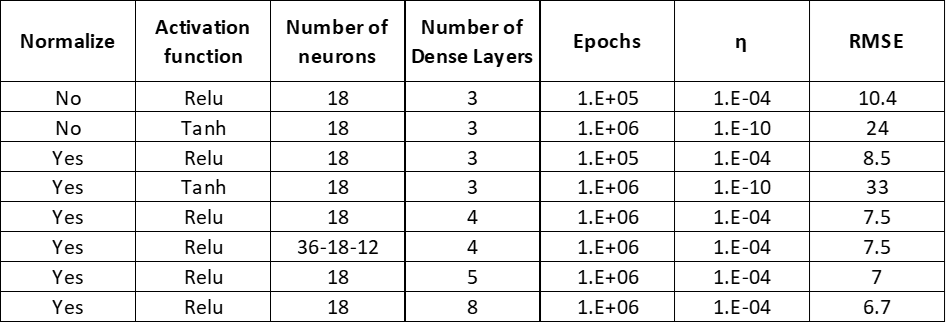
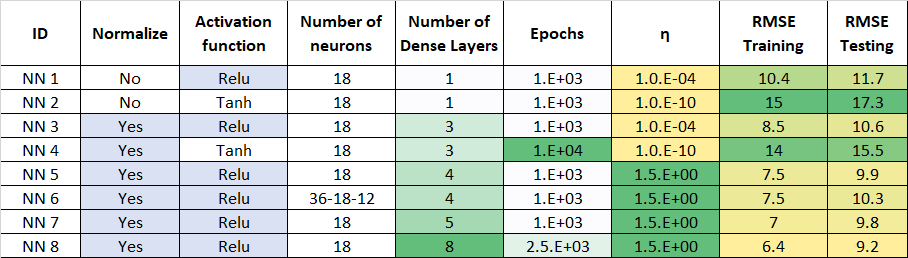
additional edits

diff --git a/content/01.abstract.md b/content/01.abstract.md
@@ -73,67 +73,43 @@ After the air quality data has been processed, the strongest O~3~ predictors wil
 
 In order to explore the relation between the dependent variable and independent variables several scatter plots were created between meteorological variables, pollutant concentrations and ozone concentrations. Additionally, a heatmap was generated to investigate the correlation values between ozone concentration and independent variables. The most correlated metereological variables are RH(relative humidity) and UVB(Ultraviolet index). RH is negatively correlated with ozone,value of -0.51, while UVB is positively correlated, value of 0.51. Another relevant observation was that concentrations of nitrogen-containing chemicals compounds are highly correlated between each other, and also are among the most correlated variables with respect to the predictand (ozone). 
 
-
-![Correlation matrix for hourly values](images/heatmap.jpg)
-Figure 1: Heatmap of Correlation Matrix for Hourly Values
-
-
 Furthermore, the fraction of available measurements, meaning the number of data points available divided by the number of hours in a year, was computed for all stations and all measured variables. This computation helped visualize the stations that missed the least data points as well as the variables whose values are recorded the most consistently through different stations. The station with the highest fraction of available measurements was Banquiao, as seen in the Figure @fig:var. For this reason the remaining portion of this EDA was devoted to this station. Other relevant statistics from the Banquio air quality station are shown in the following Table. 
 
+![Data availability of air quality stations](images/InformationDensity.png){#fig:var)_fig width=6in}
+
+![Statistics of air quality and relevant meteorological variables from Banqiao station](images/Table_description.png){#fig:Banquiao_desc width=6in}
 
 
-![Data availability of air quality stations](images/InformationDensity.png)
-
-Figure 2: 
-
-
-
-Table 2: Statistics of Air Quality and Relevant Meteorological Variables From Banqiao Station
-
-![Statistics of air quality and relevant meteorological variables from Banqiao station](images/Table_description.png){#fig:var width=6in}
-
-
-As described in previous sections, the dataset consists of hourly observations of ozone (dependent variable) and several pollutant concentrations and meteorological measurements (independent variables). The first step is to plot ozone against all of the independent variables to visualize if the data collapsed into any identifiable pattern, thus to later on use such a pattern to identify potential models. The measurements in an hourly time scale did not show any discernible pattern between the dependent and independent variables as shown in Figure 3.
-
+As described in previous sections, the dataset consists of hourly observations of ozone (dependent variable) and several pollutant concentrations and meteorological measurements (independent variables). The first step of the EDA was to plot ozone against all of the independent variables to visualize if the data collapsed into any identifiable pattern, thus to later on use such a pattern to identify potential models. The measurements in an hourly time scale did not show any observable pattern between the dependent and independent variables as shown in Figure 3. To better understand the relation between the dependent variable and independent variables correlation matrixes were produced
 
 ![Scatter plots of hourly measurements of variables](images/O3_corr.png)
 
-Figure 3: Correlationships Between Each Parameter
+Plotting the raw data, i.e. the available measurements without any processing or transformation, did not yield any insights that could help elucidate the relation between the variables. Therefore, the data was normalized. Notwithstanding,  normalization did not translate into plots where patterns could be identified. Thus, the data was processed again following two consecutive steps. First the values were averaged over a day and over a month producing a dataset of daily and monthly measurement. Second, monthly and daily values were standardized by dividing them by their corresponding daily and monthly averages. As seen on figure @fig:day, were daily standarized ozone concentrations are shown, and figures @fig:Pollutants @fig:Meteo_Vars displaying standarized pollutant monthly concentrations and metereological variables measurements.
 
-
-Plotting the raw data, i.e. the available measurements without any processing or transformation, did not yield any insights that could help elucidate the relation between the variables. Therefore, the data was normalized. Notwithstanding,  normalization did not translate into plots where patterns could be identified. Thus, the data was processed again following two consecutive steps. First the values were averaged over a day and over a month producing a dataset of daily and monthly measurement. Second, such values were standardized by dividing them by the corresponding daily and monthly averages.
-
-The resulting daily and monthly standardized averages were plotted against time. Plotting the daily averaged variables shown plots where the fluctuations of the values happened in a relatively short time and thus such fluctuations obscured any pattern that could be observed in the data, as seen in the next figure. Conversely, when the monthly standardized averages were plotted against time it was visible that the pollutants concentrations shown similar time patterns as seen in Figure 5.
+The resulting daily and monthly standardized averages were plotted against time. Plotting the daily averaged variables shown plots were the fluctuations of the values happened in a relatively short time and thus such fluctuations obscured any pattern that could be observed in the data. These was prevalent for all variables, here we show only standarized daily ozone concentrations @fig:day. Conversely, when the monthly standardized averages were plotted against time it was visible that the pollutants concentrations shown similar time patterns as seen in Figure 5.
 
 ![Daily concentrations of ozone](images/day.jpg){#fig:day width=6in}
 
-Figure 4: Daily Concentration of Ozone
-
-
-![Standardized pollutants and ozone monthly concentration changes](images/Pollutants.png){#fig:Pollutants width=6in}
-
-Figure 5: Standardized Pollutions and Ozone Monthly Concentration Changes
+![Standardized pollutants and ozone monthly concentration changes](images/Pollutants.jpg){#fig:Pollutants width=6in}
 
 ![Standardized meteorological measurements and standardized ozone monthly concentration changes](images/Meteo_Vars.png){#fig:MetereologicalVars width=6in}
 
-Figure 6: Standarized Meteorological Measurements and Standardized Ozone Monthly Concentration Changes
+In regards to pollutant concentrations, O~3~ peaked in the months when concentration of the nitrogen based pollutants and non-methane hydrocarbons dropped. This is especially the case for NO concentrations (green line). This pattern of corresponding decreasing pollutant concentrations and increasing ozone could suggest that the pollutant concentrations are negatively correlated with ozone concentrations. This is also consistent with figure @fig:heatmap (correlation plot). As shown in the figure correlation values for the nitrogen species are negative, indicanting negative correlation, and vary from -0.41 to -0.5. 
 
-In regards to pollutant concentrations, O3 peaked in the months when concentration of the nitrogen based pollutants and non-methane hydrocarbons dropped. This is especially the case for NO concentrations (green line). This pattern of corresponding decreasing pollutant concentrations and increasing ozone could suggest that the pollutant concentrations are negatively correlated with ozone concentrations. This is also consistent with figure @fig:heatmap (correlation plot). As shown in the figure correlation values for the nitrogen species are negative and vary from -0.41 to -0.5. 
+In regards to the meteorological variables, UVB (ultraviolet index) and air temperature peak in the same months. Both temperature and UVB experience an increase in their values from the beginning of the year peaking in June. After June, both values experience a steady decrease. In the case of UVB a positive correlation of 0.51 can be observed in @fig:heatmap.
 
-In regards to the meteorological variables, UVB (ultraviolet index) and air temperature peak in the same months. Both temperature and UVB experience an increase in their values from the beginning of the year peaking in June. After June, both values experience a steady decrease. In the case of UVB a correlation of 0.51 can be observed in @fig:heatmap.
+![Correlation matrix for hourly values](images/heatmap.jpg){#fig:heatmap_h)_fig width=6in}
 
 ![Correlation matrix for daily values](images/daily_cor.png){#fig:heatmap_d width=6in}
 
-Figure 7: Correlation Matrix for Daily Values
-
 ![Correlation matrix for monthly values](images/monthly_cor.png){#fig:heatmap_m width=6in}
 
-Figure 8: Correlation Matrix for Monthly Values
 
 ## Predictive Modeling
 
-Two additional correlation matrices were produced in the previous section. One for monthly average values and another for daily average values. As observed in the figures @fig:heatmap, @fig:heatmap_d, @fig:heatmap_m, correlation values of ozone with respect to daily and monthly values of nitrogen-containing compounds, NMHC and temperature are generally lower for daily and monthly averages compared to correlations values of hourly measurements. Consequently, the hourly measurements will be used for predictive modeling. Further discussion regarding the relation between the potential predictors and the predictand O~3~ will be limited to hourly measurements only.
-Values of the coefficient of determination (r^2) between O~3~ and each of the other variables were generally bellow 0.5. This suggests a non-linear relation (most r^2 values). Given the non-linearity of the relation between the predictand O~3~ and the potential predictors favoring the use of a neural network over other models such as multiple linear regression models seemed reasonable. Three different types of neural networks were tested. Additionally, a classification three model was also examined, since as seen in further section, error values of the neural network models were relatively high. 
+Two additional correlation matrices were produced in the previous section. One for monthly average values and another for daily average values. As observed in figures @fig:heatmap, @fig:heatmap_d, @fig:heatmap_m, correlation values of ozone with respect to daily and monthly values of nitrogen-containing compounds, NMHC and temperature are generally lower for daily and monthly averages compared to correlations values of hourly measurements. Consequently, the hourly measurements will be used for predictive modeling. Further discussion regarding the relation between the potential predictors and the predictand O~3~ will be limited to hourly measurements only.
+
+Values of the coefficient of determination (r^2^) between O~3~ and each of the other variables were generally bellow 0.5. This suggests a non-linear relation (most r^2^ values). Given the non-linearity of the relation between the predictand O~3~ and the potential predictors favoring the use of a neural network over other models such as multiple linear regression models seemed reasonable. Three different types of neural networks were tested. Additionally, a classification three model was also examined, since as seen in further section, error values of the neural network models were relatively high. 
 
 ### Testing of different neural network models
 
@@ -145,44 +121,37 @@ LSTM has three gates that determined the output: forget gate to determine the pe
 
 The NN, CNN and LSTM models were used to predict hourly concentrations of O~3~ (predictand or dependent variable) using as predictors the most correlated variables found in the EDA. The variables used as predictors (independent variables) were hourly measurements of: relative humidity (RH), ultraviolet radiation (UVB rays), NMHC, NOx, NO and NO2. In the case of LSTM ambient temperature was also used as dependent variable. 
 
-Different combinations of hyperparameters were tested. Model predictive ability was measured using the root mean square error (RMSE) for training and testing data. The results of such tests are summarized in @fig:CNN_RMSE and @fig:NN_RMSE .A similar table detailing RMSE for different combinations of numbers of memory cells and hidden layers on LSTM was not produced since training time neared 3 hours, yet based on trial and error a configuration of 2 LSTM layers of 32 and 64 neurons and 2 dense layers was selected. Values of RMSE were computed both for training and testing data. For all the models, including neural networks and classification tree, a 0.7 fraction of the dataset was used for training and the remaining 0.3 was used for testing.
-
 ![RMSE values for different hyperparameters and NN configurations](images/NN_RMSE.png){#fig:NN_RMSE=6in}
-Table 3: RMSE values for different hyperparameters and NN configurations
 
 ![RMSE values for different hyperparameters and CNN configurations](images/CNN_RMSE.png){#fig:CNN_RMSE=6in}
-Table 4: RMSE values for different hyperparameters and CNN configurations
+
+Different combinations of hyperparameters were tested. Model predictive ability was measured using the root mean square error (RMSE) for training and testing data. The results of such tests are summarized in @fig:CNN_RMSE and @fig:NN_RMSE .A similar table detailing RMSE for different combinations of numbers of memory cells and hidden layers on LSTM was not produced since training time neared 3 hours, yet based on trial and error a configuration of 2 LSTM layers of 32 and 64 neurons and 2 dense layers was selected. Values of RMSE were computed both for training and testing data. For all the models, including neural networks and classification tree, a 0.7 fraction of the dataset was used for training and the remaining 0.3 was used for testing.
+
+
 
 When looking at @fig:CNN_RMSE and @fig:NN_RMSE, in all cases (NN2, NN4 and CNN4 )the best performing activation function was rectified linear unit (ReLu) when compared to hyperbolic tangent. Therefore, ReLu was used as activation function for the rest of tests. In NN 4 the number epochs was increased by one order of magnitude since neural network outputted a significantly higher RMSE when using the original number epochs.
 
 Increasing the number of neurons did not decrease either RMSE in training or testing data (NN5 vs NN6) in the case the fully connected neural networks. When analyzing the CNNs, increasing the number of neurons from 12 to 18 (CNN 1 vs CNN 2) reduced testing and training RMSE. Yet when increasing to 36 neurons (CNN 2 vs CNN 3) both training and testing RMSE increased. It is necessary to mentioned that the learning rate was reduced for CNN 3 to prevent NaN outputs. For additional tests on CNNs, 18 neurons were used, since it seemed to be the configuration that yielded the best results on terms of RMSE. 
 
-Number of layers reduce both RMSE for training and testing both for NN. However, RMSE on training data dropped more significantly for training data than for testing data. This might indicate a tendency towards overfitting the training data using NN on this dataset. In the case of CNN, when increasing the number of convolutional layers ,RMSE increased marginally for training data and drop for testing data (CNN7 vs CNN8). When adding another convolutional layer (CNN8 vs CNN9) training RMSE dropped significantly (overfitting) and testing RMSE increased, suggesting poor generalization.
+Number of layers reduce both RMSE for training and testing both for NN. However, RMSE on training data dropped more significantly for training data than for testing data. This might indicate a tendency towards overfitting the training data using NN on this dataset. In the case of CNN, when increasing the number of convolutional layers ,RMSE increased marginally for training data and drop for testing data (CNN7 vs CNN8). When adding another convolutional layer (CNN8 vs CNN9) training RMSE dropped significantly (overfitting) and testing RMSE increased, suggesting poor generalization. Additional figures, shown bellow, showing the influence of number epochs used in training on RMSE were created.  
 
-To summarize the best performing neural networks in terms of RMSE for testing data were NN 8 and CNN 8. We chose to favor testing RMSE since it is a better metric of model to generalize learning, which is particularly important when using a model for prediction and regression since a predictive model should be able to render predictions based on data it has “not seen” rather than on the data it was trained. The effects of generalization and overfitting can be also observed in figures, @fig:EE_PO_LSTM, @fig:EE_PO_1CNN, @fig:EE_PO_2CNN, @fig:EE_PO_3CNN, @fig:EE_PO_8NN, @fig:ClassTree, where dispersion is clearer more pronounced on testing data rather than in the training data.
 
-![Error value versus epochs and observations versus prediction 2 Layer LSTM](images/ LSTM 2 Layer.png){#fig:EE_PO_LSTM=6in}
-Figure 9: Training and testing RMSE versus number of epochs and predictions versus observations (actual values) for LSTM
+![Training and testing RMSE versus number of epochs and predictions versus observations (actual values) for LSTM](images/LSTM 2 Layer.png){#fig:EE_PO_LSTM=5in}
 
-![Error value versus epochs and observations versus prediction 1 Layer CNN](images/CNN 1 Layer.png){#fig:EE_PO_1CNN=6in}
-Figure 10: Training and testing RMSE vs number of epochs and predictions versus observations for CNN 7 (1 layer CNN)
+![Training and testing RMSE vs number of epochs and predictions versus observations for CNN 7 (1 layer CNN)](images/CNN 1 Layer.png){#fig:EE_PO_1CNN=5in}
 
-![Error value versus epochs and observations versus prediction 2 Layers CNN](images/CNN 2 Layer.png){#fig:EE_PO_2CNN=6in}
-Figure 11: Training and testing RMSE vs number of epochs and predictions versus observations for CNN 8 (2 layer CNN)
+![Training and testing RMSE vs number of epochs and predictions versus observations for CNN 8 (2 layer CNN)](images/CNN 2 Layer.png){#fig:EE_PO_2CNN=5in}
 
-![Error value versus epochs and observations versus prediction 3 Layers CNN](images/CNN 3 Layer.png){#fig:EE_PO_3CNN=6in}
-Figure 12: Training and testing RMSE vs number of epochs and predictions versus observations for CNN 9 (3 layer CNN)
+![Training and testing RMSE vs number of epochs and predictions versus observations for CNN 9 (3 layer CNN)](images/CNN 3 Layer.png){#fig:EE_PO_3CNN=5in}
 
-![Error value versus epochs and observations versus prediction 8 Layer NN](images/NN 8 Layer.png){#fig:EE_PO_8NN=6in}
-Figure 13: Training and testing RMSE vs number of epochs and predictions versus observations for NN 8 (8 layer NN)
+![Training and testing RMSE vs number of epochs and predictions versus observations for NN 8 (8 layer NN)](images/NN 8 Layer.png){#fig:EE_PO_8NN=5in}
 
-![Observations versus prediction Classification Tree model](images/ClassificationTree.png){#fig:ClassTree=6in}
-Figure 14: Training and testing RMSE  and predictions versus observations for classification tree
+![Training and testing RMSE  and predictions versus observations for classification tree](images/ClassificationTree.png){#fig:ClassTree=6in}
 
 Another important aspect is the effect of the number of training epochs on RMSE. In all the cases, @fig:EE_PO_8NN, @fig:EE_PO_1CNN, @fig:EE_PO_2CNN, @fig:EE_PO_3CNN, RMSE for the training data dropped with increased number of epochs. However, RMSE for testing data initially dropped from the epoch 1 to 300 and then increased for LSTM (@fig:EE_PO_LSTM) and CNN 2 and 3 (@fig:EE_PO_2CNN, @fig:EE_PO_3CNN) for additional training steps.  In the cases of CNN 1(@fig:EE_PO_1CNN) and NN 8 (@fig:EE_PO_8NN)RMSE for testing data continued to drop, but at a lower rate than RMSE for training data. Because of most of the cases either RMSE increased with increased number of epochs or RMSE reduction was modest in comparison to increased training time, number of epochs was limited to 2500 for NN 8, 300 for CNN 8 and 300 for LSTM. 
 In the case of the classification tree model, @fig:ClassTree,  RMSE is zero for the training data, where as RMSE for testing data is 9.9. This is by far the most extreme example of overfitting of all the models. 
 
-###Discussion
+## Discussion
 
 The lowest RMSE measured in all the different neural network-based model was 7.7 PPB (CNN 8). For reference, the mean value of ozone concentration in the dataset was 25.0 PPB, thus the level of error of the predictive model might be deemed unsatisfactory. This motivated to test a classification tree model. RMSE for the classification tree was 9.7 PPB, which is greater than the lowest RMSE yielded by the neural network models. 
 
